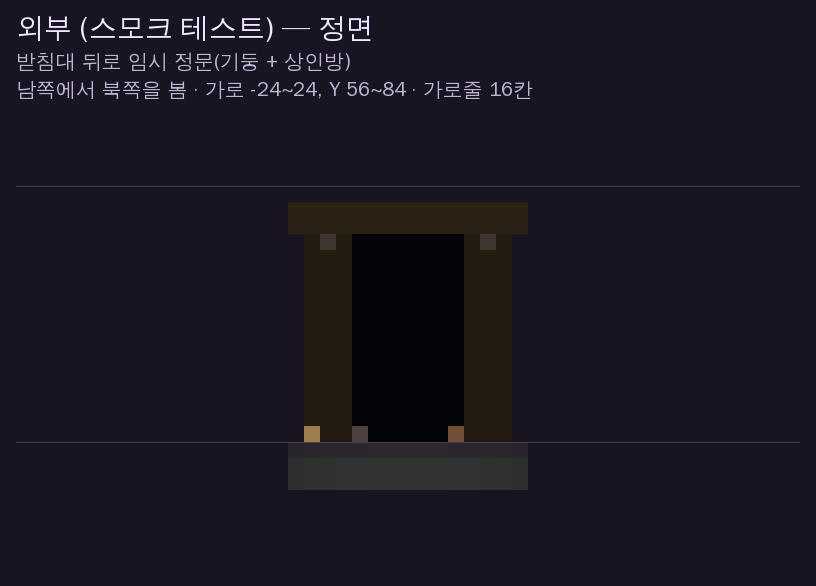
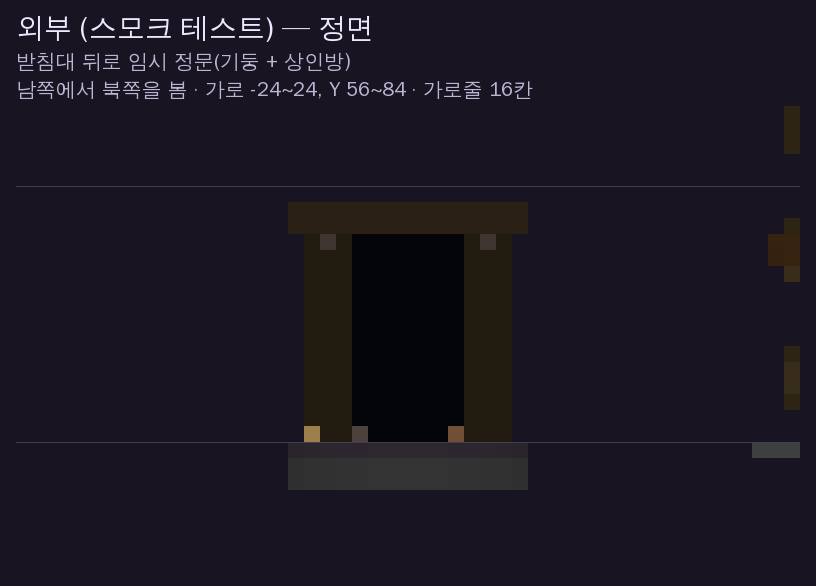
스모크 월드에 도형 엔진 견본(작은 탑·말린 가지) 추가, 테스트 항목 ⑨
Claude-Session: https://claude.ai/code/session_01TMthQZez8AZM1HDS7CHfpq

Changed region(s): [[0.9191, 0.3993, 0.9804, 0.4915], [0.9191, 0.7372, 0.9804, 0.7986], [0.9498, 0.6143, 0.9804, 0.6758]]

diff --git a/builders/smoke.py b/builders/smoke.py
@@ -14,7 +14,37 @@ Y0 = 64  # 바닥 위 첫 칸
 
 def build(b):
     exterior(b)
+    engine_sample(b)
     lobby(b)
+
+
+def engine_sample(b):
+    """도형 엔진 견본 (받침대 동쪽): 말린 가지 2개 + 작은 판자 탑. 계단·반블록 곡면 다듬기 화면 확인용."""
+    from tools import shapes as S
+    d = b.dim("exterior")
+    wood = ("minecraft:dark_oak_stairs", "minecraft:dark_oak_slab")
+    log = S.log_along("minecraft:dark_oak_log[axis={a}]")
+    cx, cz = 30, -6
+    d.fill(cx - 8, Y0 - 1, cz - 8, cx + 8, Y0 - 1, cz + 8, "minecraft:polished_deepslate")
+
+    def rad(y, th):
+        return 5.5 + 0.8 * np.sin(np.pi * ((y - Y0) % 8) / 8)
+    tower = S.Revolve(Y0, Y0 + 24, rad, rmax=7, cx=cx + 0.5, cz=cz + 0.5).with_(
+        paint=S.mix(["minecraft:dark_oak_log[axis=y]", "minecraft:stripped_dark_oak_log[axis=y]"], seed=3))
+    ledge = S.Revolve(Y0 + 11.5, Y0 + 13, lambda y, th: np.full_like(y, 7.5), rmax=8, cx=cx + 0.5,
+                      cz=cz + 0.5).with_(paint="minecraft:dark_oak_planks", smooth=wood)
+    parts = [tower, ledge]
+    for dirv in (np.array([1.0, 0, 0.25]), np.array([0.2, 0, -1.0])):  # 동쪽, 북쪽 (정문 쪽은 피함)
+        dirv = dirv / np.linalg.norm(dirv)
+        p0 = np.array([cx + 0.5, Y0 + 16, cz + 0.5]) + dirv * 4
+        p3 = p0 + dirv * 26 + np.array([0, 10, 0])
+        main = S.resample(S.bezier(p0, p0 + dirv * 8 + [0, 9, 0], p3 - dirv * 9 + [0, 2, 0], p3, 60), 1.0)
+        c = S.curl(main[-1], main[-1] - main[-2], [0, 1, 0], 6, turns=1.8, shrink=0.5, step=1.0)
+        pts = S.join(main, c)
+        radii = np.concatenate([np.linspace(3.2, 1.8, len(main)), np.linspace(1.8, 1.1, len(c) - 1)])
+        parts.append(S.Tube(pts, radii).with_(paint=log, smooth=wood))
+    S.carve(d, S.Union(*parts), shell=1, smooth=True)
+    b.links.anchor("engine_sample", d.dim, cx + 0.5, Y0, cz + 14.5, yaw=180)
 
 
 def exterior(b):

diff --git a/TESTING.md b/TESTING.md
@@ -38,6 +38,7 @@
 | ⑥ | 블록 | 받침대 왼쪽 뒤 **조각된 책장**에 책 3권이 꽂혀 있는가 |
 | ⑦ | 명령어 | 채팅에 `/function ruina:setup` 입력 → 오류 없이 실행되는가 (치트 허용 확인) |
 | ⑧ | 성능 | F3의 fps: 쉐이더 끔/켬 각각. PC 사양(그래픽카드) 한 줄 |
+| ⑨ | 곡면 견본 | 받침대 **오른쪽(동쪽)**의 작은 탑과 끝이 말린 가지 2개. 표면의 계단·반블록이 매끄럽게 붙었는지, 엉뚱한 방향으로 튀어나온 계단이 없는지 가까이·멀리 스크린샷 2장 (`/function ruina:tp/to/engine_sample`로 바로 이동) |
 
 ## 4. 보고 양식
 
@@ -56,6 +57,7 @@ PC 사양(그래픽카드):
 ⑥ 책장 책 3권: O / X
 ⑦ /function ruina:setup: O / X
 ⑧ fps 쉐이더 끔 / 켬:
+⑨ 곡면 견본: 매끄러움 O / X, 이상한 계단 위치:
 기타:
 ```
 

diff --git a/previews/README.md b/previews/README.md
@@ -10,6 +10,7 @@
 | ![](smoke_exterior_front.png) | 외부 — 정면(남쪽에서 북쪽을 본 모습) |
 | ![](smoke_lobby_plan.png) | 로비 — 평면도 (천장을 잘라낸 모습) |
 | ![](smoke_lobby_section.png) | 로비 — 단면 |
+| ![](smoke_exterior_iso.png) | 외부 입체도 — 받침대 동쪽에 도형 엔진 견본(작은 탑 + 말린 가지, 테스터 확인 ⑨) |
 
 ## 도형 엔진 시연 — 외부 건물 시제품 v0
 
